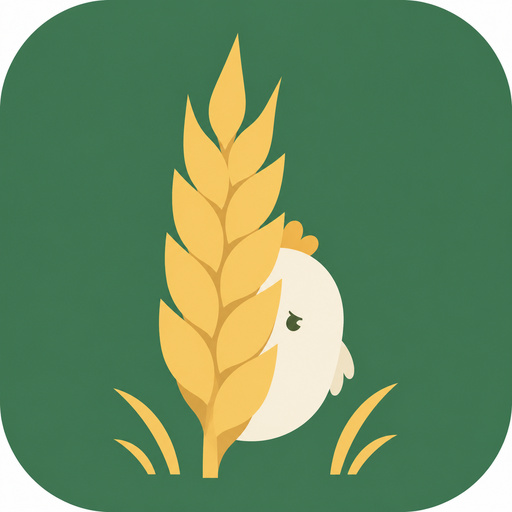
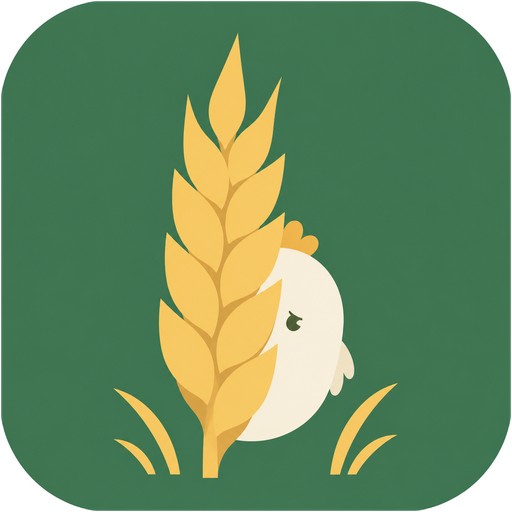
sync from Yuan tools/farm-note

diff --git a/index.html b/index.html
@@ -6,7 +6,7 @@
 <link rel="manifest" href="manifest.webmanifest">
 <meta name="theme-color" content="#3E7B4F">
 <link rel="icon" href="icon-192.png">
-<link rel="apple-touch-icon" href="icon-192.png">
+<link rel="apple-touch-icon" href="icon-512-maskable.png">
 <title>農場速記</title>
 <style>
 :root{
@@ -61,7 +61,7 @@ button:focus-visible{outline:2px solid var(--accent);outline-offset:2px}
     <pre id="out"></pre>
     <div class="row"><button id="copy">複製給老公</button></div>
   </div>
-  <p class="hint">收成會自動加總、成熟時間會排隊、牧場列愛心跟下一份產物。只貼一部分也行。</p>
+  <p class="hint">收成會自動加總、可收成的插隊排最前、成熟時間會排隊、牧場列愛心跟下一份產物。只貼一部分也行。</p>
 </div>
 <script>
 const CROP={ "月光蘿蔔":"蘿蔔","星子番茄":"番茄","圓月南瓜":"南瓜","夕陽芒果":"芒果","維塔拉花":"花" };
@@ -98,6 +98,23 @@ function parse(txt){
     S.push(line);
   }
   // ---- 農園 ----
+  const sortT=(a,b)=>{
+    const w=s=>s.startsWith("明")?"1"+s.slice(1):(/^\d+\//.test(s)?"2"+s:"0"+s);
+    return w(a)<w(b)?-1:1;
+  };
+  const grp=g=>Object.entries(g).map(([c,n])=>c+(n>1?"×"+n:"")).join("+");
+  const ready={};
+  const reR=/️⃣([^\n一-龥]{0,10})([一-龥]{2,8})\s*\n[^\n]{0,12}收成度[\s\S]{0,120}?可收成(?:[^\n]*?(\d{4})\/(\d{2})\/(\d{2})\s*(\d{2}:\d{2})\s*前)?/g;
+  while((m=reR.exec(txt))){
+    const t=m[3]?fmtT(m[3],+m[4],+m[5],m[6]):"";
+    const c=shortName(m[2]);
+    (ready[t]=ready[t]||{}); ready[t][c]=(ready[t][c]||0)+1;
+  }
+  const rk=Object.keys(ready);
+  if(rk.length){
+    rk.sort(sortT);
+    S.push("✅ 可收 "+rk.map(t=>grp(ready[t])+(t?"（"+t+"前）":"")).join("｜"));
+  }
   const fields={};
   const reF=/️⃣([^\n一-龥]{0,10})([一-龥]{2,8})\s*\n[^\n]{0,12}生長度[\s\S]{0,160}?預計\s*(\d{4})\/(\d{2})\/(\d{2})\s*(\d{2}:\d{2})\s*成熟/g;
   while((m=reF.exec(txt))){
@@ -108,14 +125,8 @@ function parse(txt){
   }
   const fk=Object.keys(fields);
   if(fk.length){
-    fk.sort((a,b)=>{
-      const w=s=>s.startsWith("明")?"1"+s.slice(1):(/^\d+\//.test(s)?"2"+s:"0"+s);
-      return w(a)<w(b)?-1:1;
-    });
-    S.push("🌱 "+fk.map(t=>{
-      const cs=Object.entries(fields[t]).map(([c,n])=>c+(n>1?"×"+n:"")).join("+");
-      return t+" "+cs;
-    }).join("｜"));
+    fk.sort(sortT);
+    S.push("🌱 "+fk.map(t=>t+" "+grp(fields[t])).join("｜"));
   }
   // ---- 牧場 ----
   const an=[];